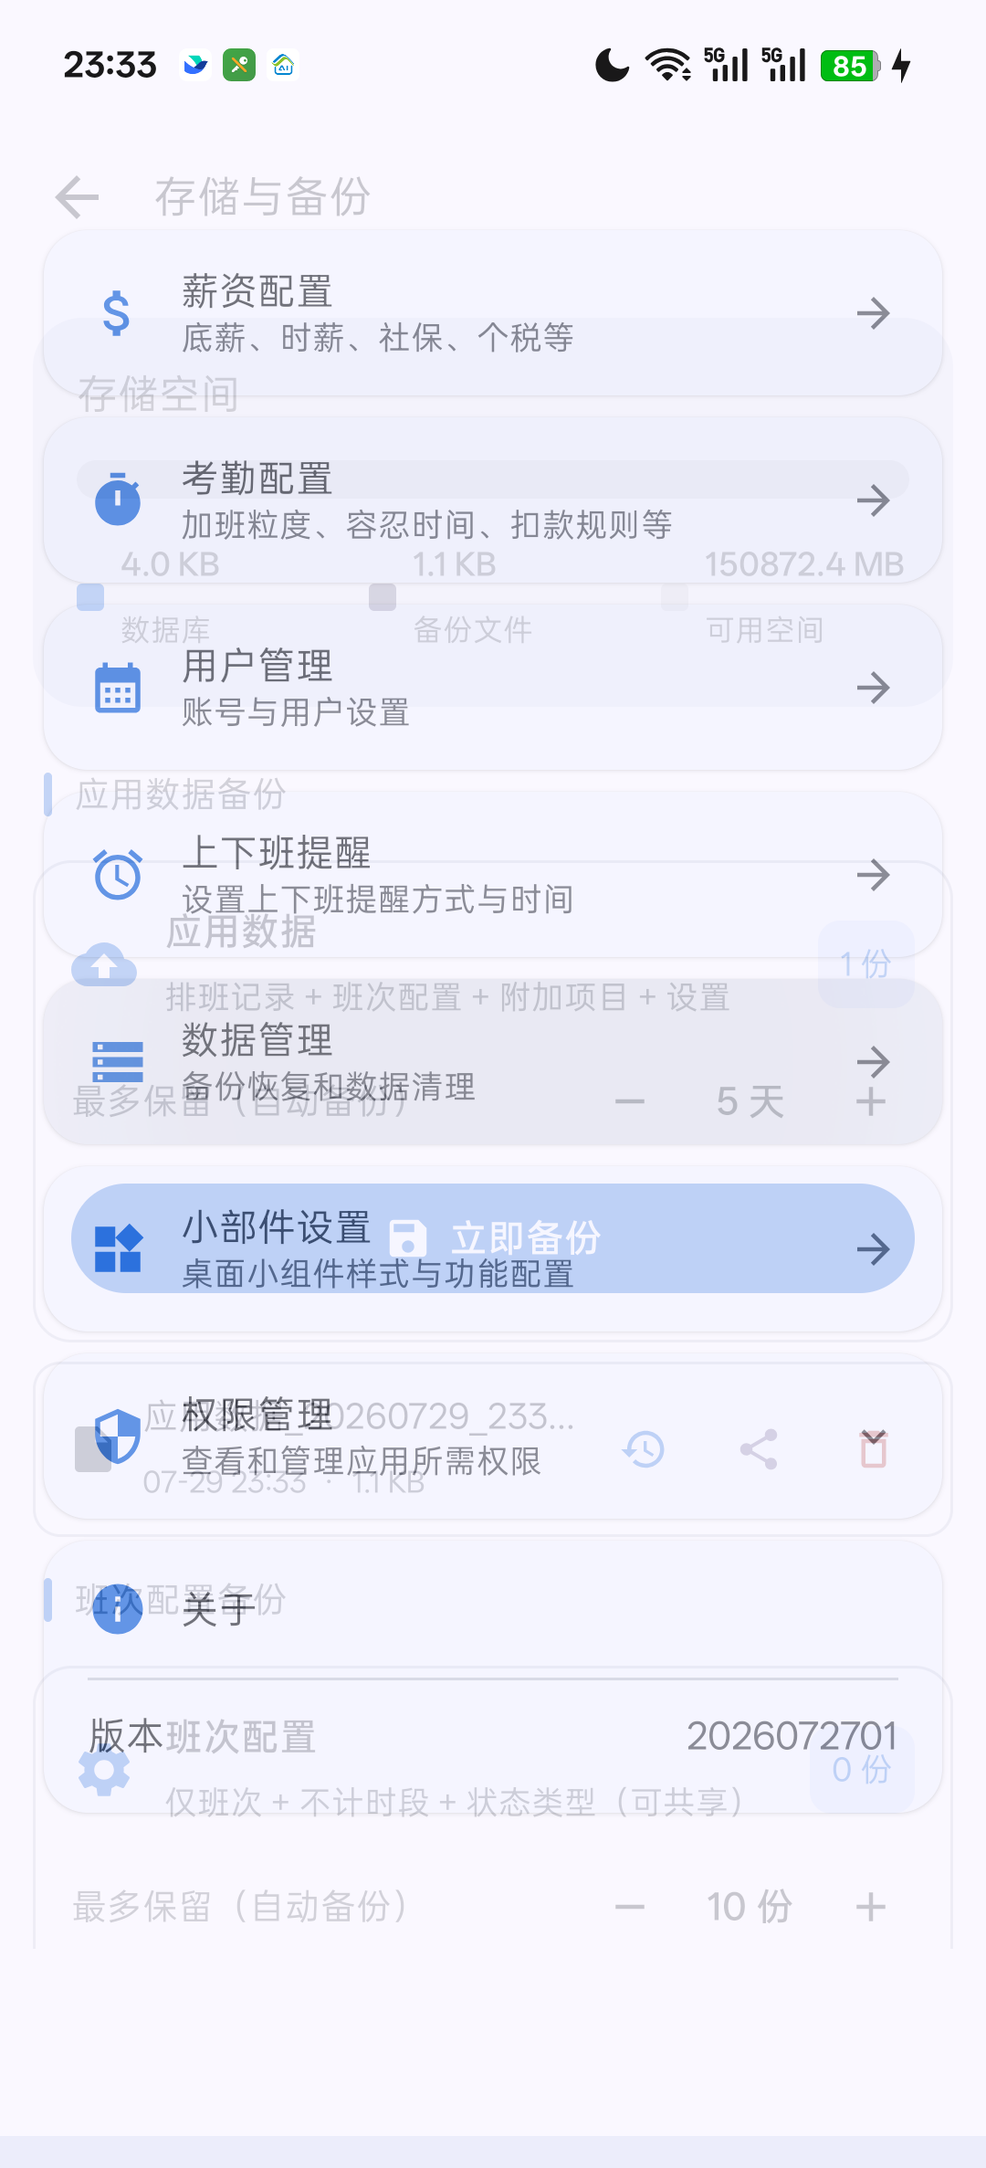
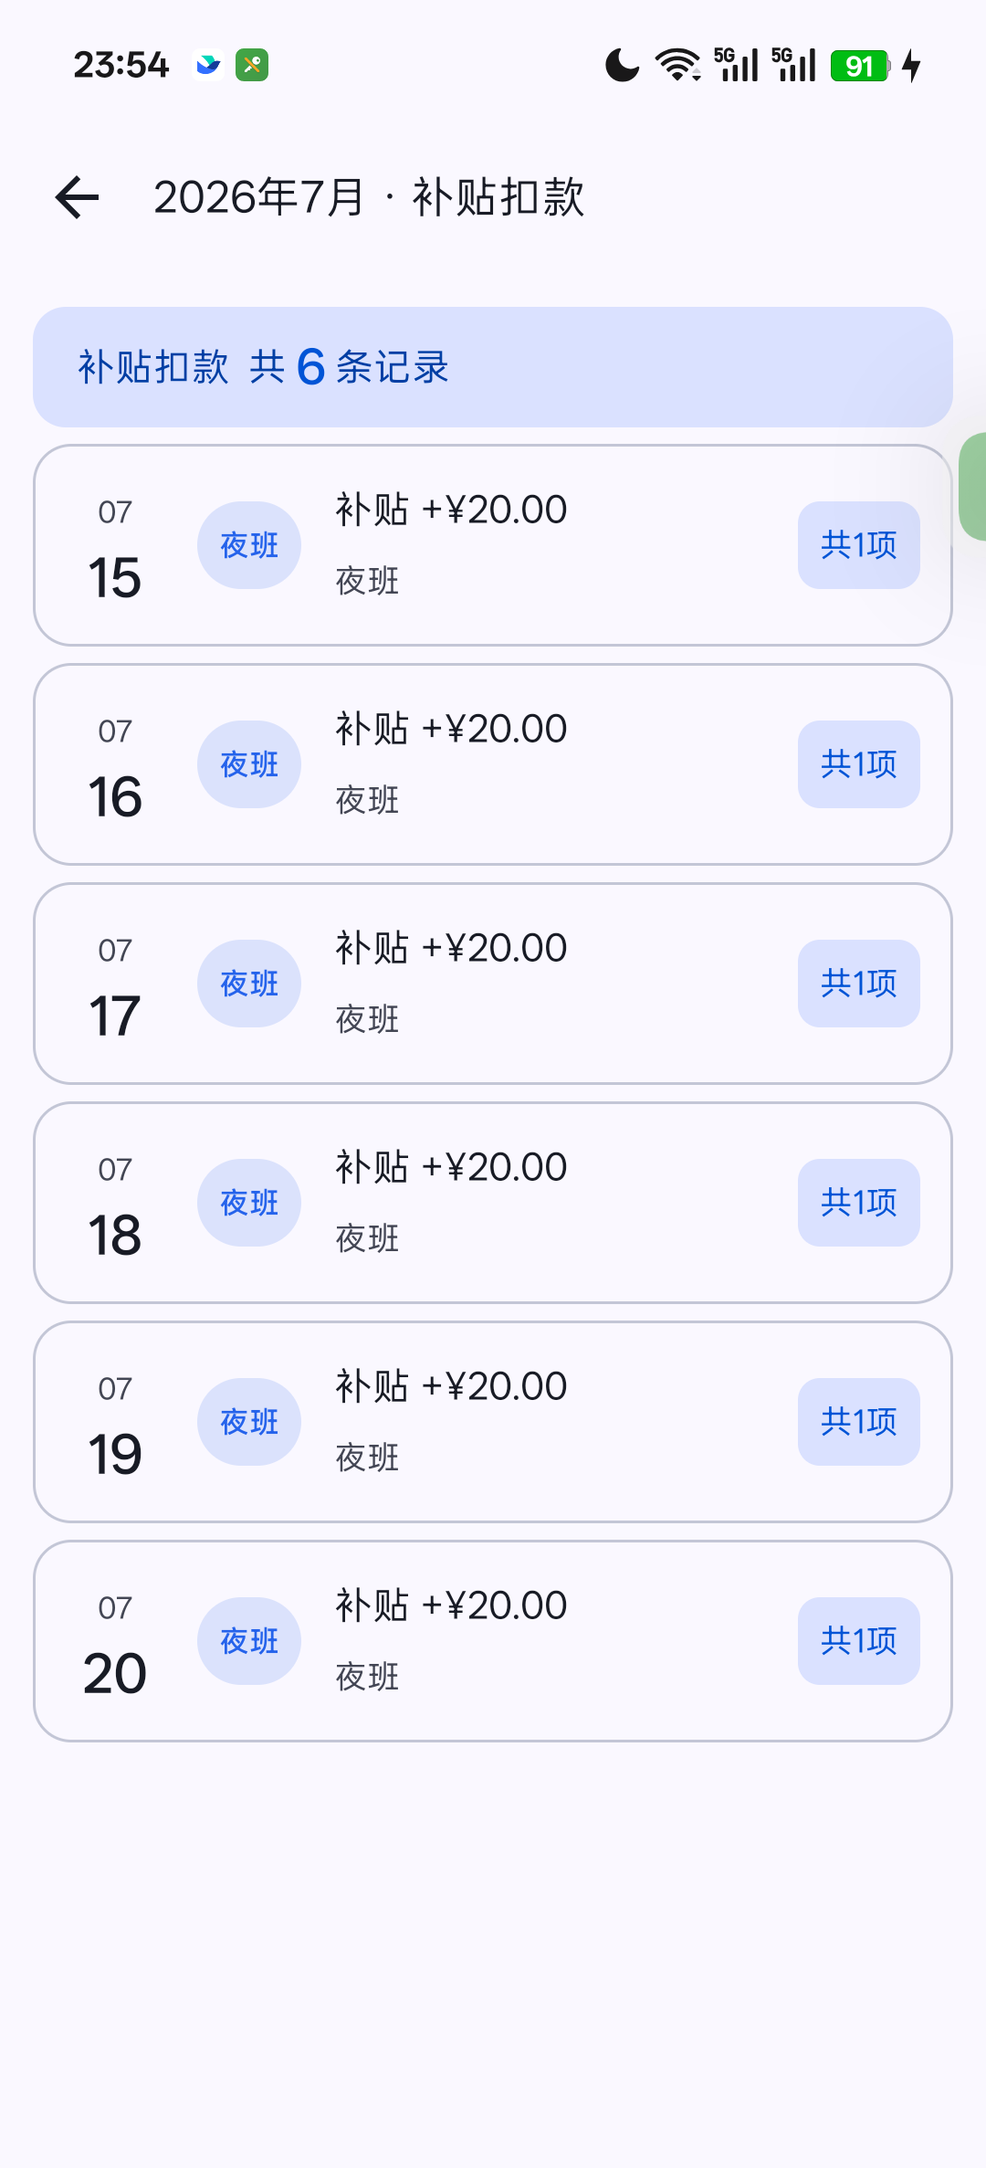
docs(components): 更新日期选择器文档以反映标准Material3实现
- 移除对已删除自定义WheelDatePickerDialog组件的引用
- 更新文档说明当前采用标准Material3 DatePickerDialog为主
- 添加自定义滚轮选择器作为特殊场景备用方案的说明
- 调整架构概览和使用示例匹配实际代码实现
- 更新序列图和依赖关系图以反映新的实现方案
- 增强Material3标准日期选择器的使用指南和最佳实践

diff --git a/app/src/main/java/com/schedulecalendar/app/ui/detail/DetailViewModels.kt b/app/src/main/java/com/schedulecalendar/app/ui/detail/DetailViewModels.kt
@@ -18,6 +18,7 @@ import dagger.hilt.android.lifecycle.HiltViewModel
 import kotlinx.coroutines.channels.Channel
 import kotlinx.coroutines.flow.*
 import kotlinx.coroutines.launch
+import kotlinx.coroutines.withContext
 import javax.inject.Inject
 import java.time.LocalDate
 
@@ -285,135 +286,135 @@ class HoursDetailViewModel @Inject constructor(
     init { load() }
 
     private fun load() = viewModelScope.launch {
-        val shifts      = shiftRepo.getAllWithBuiltin()
-        val breaks      = breakRepo.getAll()
-        val statuses    = shiftStatusRepo.getAllWithBuiltin()
-        val extras      = extraRepo.getAll()
-        val salaryConf  = prefs.salaryConfigFlow.first()
-        val attendConf  = prefs.attendConfigFlow.first()
-        val records     = scheduleRepo.getByMonth("%04d-%02d".format(year, month))
-        val schedules   = records.associateBy { it.date }
-        val details     = CalcUtils.getMonthScheduleDetails(year, month, schedules, shifts, breaks, extras, salaryConf, attendConf)
+        // 数据加载 + 工时计算移至 IO 线程，避免阻塞 Main 线程导致导航卡顿
+        val result = withContext(kotlinx.coroutines.Dispatchers.IO) {
+            val shifts      = shiftRepo.getAllWithBuiltin()
+            val breaks      = breakRepo.getAll()
+            val statuses    = shiftStatusRepo.getAllWithBuiltin()
+            val extras      = extraRepo.getAll()
+            val salaryConf  = prefs.salaryConfigFlow.first()
+            val attendConf  = prefs.attendConfigFlow.first()
+            val records     = scheduleRepo.getByMonth("%04d-%02d".format(year, month))
+            val schedules   = records.associateBy { it.date }
+            val details     = CalcUtils.getMonthScheduleDetails(year, month, schedules, shifts, breaks, extras, salaryConf, attendConf)
 
-        val todayStr = "%04d-%02d-%02d".format(
-            LocalDate.now().year, LocalDate.now().monthValue, LocalDate.now().dayOfMonth
-        )
+            val todayStr = "%04d-%02d-%02d".format(
+                LocalDate.now().year, LocalDate.now().monthValue, LocalDate.now().dayOfMonth
+            )
 
-        val items = when (detailType) {
-            HoursDetailType.LATE -> {
-                details.filter { it.date <= todayStr && it.record != null }.mapNotNull { d ->
-                    val rec = d.record ?: return@mapNotNull null
-                    val shift = d.shift ?: return@mapNotNull null
-                    val actualStart = rec.actualStartTime.takeIf { !it.isNullOrEmpty() } ?: return@mapNotNull null
-                    val lateMinutes = calcLateMinutes(shift.startTime, actualStart, attendConf.lateToleranceMin)
-                    if (lateMinutes <= 0) return@mapNotNull null
-                    HoursDetailItem(
-                        date = d.date,
-                        shiftName = shift.name, shiftColor = shift.color,
-                        primaryText = "打卡 $actualStart（计划 ${shift.startTime}）",
-                        highlightText = "迟到 ${lateMinutes}分钟",
-                        isAlert = lateMinutes >= (attendConf.lateAlertCount * attendConf.lateToleranceMin)
-                    )
-                }
-            }
-            HoursDetailType.EARLY -> {
-                details.filter { it.date <= todayStr && it.record != null }.mapNotNull { d ->
-                    val rec = d.record ?: return@mapNotNull null
-                    val shift = d.shift ?: return@mapNotNull null
-                    val actualEnd = rec.actualEndTime.takeIf { !it.isNullOrEmpty() } ?: return@mapNotNull null
-                    val earlyMinutes = calcEarlyMinutes(shift.endTime, actualEnd, attendConf.earlyLeaveToleranceMin)
-                    if (earlyMinutes <= 0) return@mapNotNull null
-                    HoursDetailItem(
-                        date = d.date,
-                        shiftName = shift.name, shiftColor = shift.color,
-                        primaryText = "打卡 $actualEnd（计划 ${shift.endTime}）",
-                        highlightText = "早退 ${earlyMinutes}分钟",
-                        isAlert = earlyMinutes >= (attendConf.earlyLeaveAlertCount * attendConf.earlyLeaveToleranceMin)
-                    )
-                }
-            }
-            HoursDetailType.REMARK -> {
-                details.filter { it.date <= todayStr && !it.record?.remark.isNullOrBlank() }.map { d ->
-                    HoursDetailItem(
-                        date = d.date,
-                        shiftName = d.shift?.name, shiftColor = d.shift?.color,
-                        primaryText = d.record?.remark ?: ""
-                    )
-                }
-            }
-            HoursDetailType.MISSED -> {
-                details.filter { it.date <= todayStr && it.record != null && it.shift != null }.mapNotNull { d ->
-                    val rec = d.record ?: return@mapNotNull null
-                    val shift = d.shift ?: return@mapNotNull null
-                    if (shift.builtInType == "rest" || shift.builtInType == "swap") return@mapNotNull null
-                    val missingStart = rec.actualStartTime.isNullOrEmpty()
-                    val missingEnd   = rec.actualEndTime.isNullOrEmpty()
-                    if (!missingStart && !missingEnd) return@mapNotNull null
-                    val parts = buildList {
-                        if (missingStart) add("上班未打卡")
-                        if (missingEnd)   add("下班未打卡")
+            val items = when (detailType) {
+                HoursDetailType.LATE -> {
+                    details.filter { it.date <= todayStr && it.record != null }.mapNotNull { d ->
+                        val rec = d.record ?: return@mapNotNull null
+                        val shift = d.shift ?: return@mapNotNull null
+                        val actualStart = rec.actualStartTime.takeIf { !it.isNullOrEmpty() } ?: return@mapNotNull null
+                        val lateMinutes = calcLateMinutes(shift.startTime, actualStart, attendConf.lateToleranceMin)
+                        if (lateMinutes <= 0) return@mapNotNull null
+                        HoursDetailItem(
+                            date = d.date,
+                            shiftName = shift.name, shiftColor = shift.color,
+                            primaryText = "打卡 $actualStart（计划 ${shift.startTime}）",
+                            highlightText = "迟到 ${lateMinutes}分钟",
+                            isAlert = lateMinutes >= (attendConf.lateAlertCount * attendConf.lateToleranceMin)
+                        )
                     }
-                    HoursDetailItem(
-                        date = d.date,
-                        shiftName = shift.name, shiftColor = shift.color,
-                        primaryText = parts.joinToString("，"),
-                        secondaryText = "班次 ${shift.startTime}～${shift.endTime}",
-                        isAlert = true
-                    )
                 }
-            }
-            HoursDetailType.EXTRA -> {
-                details.filter { it.extras.isNotEmpty() }.map { d ->
-                    val subsidyTotal   = d.extras.filter { it.type == "allowance" }.sumOf { it.amount }
-                    val deductionTotal = d.extras.filter { it.type == "deduction" }.sumOf { it.amount }
-                    val parts = buildList {
-                        if (subsidyTotal > 0)   add("补贴 +¥%.2f".format(subsidyTotal))
-                        if (deductionTotal > 0) add("扣款 -¥%.2f".format(deductionTotal))
+                HoursDetailType.EARLY -> {
+                    details.filter { it.date <= todayStr && it.record != null }.mapNotNull { d ->
+                        val rec = d.record ?: return@mapNotNull null
+                        val shift = d.shift ?: return@mapNotNull null
+                        val actualEnd = rec.actualEndTime.takeIf { !it.isNullOrEmpty() } ?: return@mapNotNull null
+                        val earlyMinutes = calcEarlyMinutes(shift.endTime, actualEnd, attendConf.earlyLeaveToleranceMin)
+                        if (earlyMinutes <= 0) return@mapNotNull null
+                        HoursDetailItem(
+                            date = d.date,
+                            shiftName = shift.name, shiftColor = shift.color,
+                            primaryText = "打卡 $actualEnd（计划 ${shift.endTime}）",
+                            highlightText = "早退 ${earlyMinutes}分钟",
+                            isAlert = earlyMinutes >= (attendConf.earlyLeaveAlertCount * attendConf.earlyLeaveToleranceMin)
+                        )
                     }
-                    HoursDetailItem(
-                        date = d.date,
-                        shiftName = d.shift?.name, shiftColor = d.shift?.color,
-                        primaryText = parts.joinToString("，"),
-                        secondaryText = d.extras.joinToString("、") { it.name },
-                        highlightText = "共${d.extras.size}项"
-                    )
+                }
+                HoursDetailType.REMARK -> {
+                    details.filter { it.date <= todayStr && !it.record?.remark.isNullOrBlank() }.map { d ->
+                        HoursDetailItem(
+                            date = d.date,
+                            shiftName = d.shift?.name, shiftColor = d.shift?.color,
+                            primaryText = d.record?.remark ?: ""
+                        )
+                    }
+                }
+                HoursDetailType.MISSED -> {
+                    details.filter { it.date <= todayStr && it.record != null && it.shift != null }.mapNotNull { d ->
+                        val rec = d.record ?: return@mapNotNull null
+                        val shift = d.shift ?: return@mapNotNull null
+                        if (shift.builtInType == "rest" || shift.builtInType == "swap") return@mapNotNull null
+                        val missingStart = rec.actualStartTime.isNullOrEmpty()
+                        val missingEnd   = rec.actualEndTime.isNullOrEmpty()
+                        if (!missingStart && !missingEnd) return@mapNotNull null
+                        val parts = buildList {
+                            if (missingStart) add("上班未打卡")
+                            if (missingEnd)   add("下班未打卡")
+                        }
+                        HoursDetailItem(
+                            date = d.date,
+                            shiftName = shift.name, shiftColor = shift.color,
+                            primaryText = parts.joinToString("，"),
+                            secondaryText = "班次 ${shift.startTime}～${shift.endTime}",
+                            isAlert = true
+                        )
+                    }
+                }
+                HoursDetailType.EXTRA -> {
+                    details.filter { it.extras.isNotEmpty() }.map { d ->
+                        val subsidyTotal   = d.extras.filter { it.type == "allowance" }.sumOf { it.amount }
+                        val deductionTotal = d.extras.filter { it.type == "deduction" }.sumOf { it.amount }
+                        val parts = buildList {
+                            if (subsidyTotal > 0)   add("补贴 +¥%.2f".format(subsidyTotal))
+                            if (deductionTotal > 0) add("扣款 -¥%.2f".format(deductionTotal))
+                        }
+                        HoursDetailItem(
+                            date = d.date,
+                            shiftName = d.shift?.name, shiftColor = d.shift?.color,
+                            primaryText = parts.joinToString("，"),
+                            secondaryText = d.extras.joinToString("、") { it.name },
+                            highlightText = "共${d.extras.size}项"
+                        )
+                    }
+                }
+                HoursDetailType.ALL -> {
+                    details.filter { it.record != null }.map { d ->
+                        val total = d.normalHours + d.overtimeHours + d.weekendHours + d.holidayHours
+                        HoursDetailItem(
+                            date = d.date,
+                            shiftName = d.shift?.name, shiftColor = d.shift?.color,
+                            primaryText = if (total > 0) "工时 %.1fh".format(total) else d.record?.type?.name ?: "",
+                            secondaryText = buildString {
+                                if (d.overtimeHours > 0) append("加班%.1fh ".format(d.overtimeHours))
+                                if (d.record?.remark?.isNotBlank() == true) append("备注")
+                            },
+                            highlightText = if (d.salary > 0) "¥%.0f".format(d.salary) else ""
+                        )
+                    }
                 }
             }
-            HoursDetailType.ALL -> {
-                details.filter { it.record != null }.map { d ->
-                    val total = d.normalHours + d.overtimeHours + d.weekendHours + d.holidayHours
-                    HoursDetailItem(
-                        date = d.date,
-                        shiftName = d.shift?.name, shiftColor = d.shift?.color,
-                        primaryText = if (total > 0) "工时 %.1fh".format(total) else d.record?.type?.name ?: "",
-                        secondaryText = buildString {
-                            if (d.overtimeHours > 0) append("加班%.1fh ".format(d.overtimeHours))
-                            if (d.record?.remark?.isNotBlank() == true) append("备注")
-                        },
-                        highlightText = if (d.salary > 0) "¥%.0f".format(d.salary) else ""
-                    )
-                }
-            }
+            items
         }
 
-        _state.update { it.copy(items = items, loading = false) }
+        _state.update { it.copy(items = result, loading = false) }
     }
 
-    /** 计算迟到分钟数（超过容忍阈值才算），返回实际迟到分钟（支持跨午夜） */
+    /** 计算迟到分钟数（超过容忍阈值才算），返回实际迟到分钟 */
     private fun calcLateMinutes(planStart: String, actualStart: String, toleranceMin: Int): Int {
         val p = planStart.toMinutes(); val a = actualStart.toMinutes()
-        // 跨午夜修正：实际打卡时间早于计划上班时间，视为次日（前一天晚上）
-        val adjA = if (a < p) a + 1440 else a
-        val diff = adjA - p
+        val diff = a - p  // 正=迟到 负=早到
         return if (diff >= toleranceMin) diff else 0
     }
 
-    /** 计算早退分钟数（支持跨午夜） */
+    /** 计算早退分钟数 */
     private fun calcEarlyMinutes(planEnd: String, actualEnd: String, toleranceMin: Int): Int {
         val p = planEnd.toMinutes(); val a = actualEnd.toMinutes()
-        // 跨午夜修正：实际打卡时间早于计划下班时间，视为次日
-        val adjA = if (a < p) a + 1440 else a
-        val diff = p - adjA
+        val diff = p - a  // 正=早退 负=晚退
         return if (diff >= toleranceMin) diff else 0
     }
 

diff --git a/app/src/main/java/com/schedulecalendar/app/ui/calendar/CalendarViewModel.kt b/app/src/main/java/com/schedulecalendar/app/ui/calendar/CalendarViewModel.kt
@@ -294,26 +294,16 @@ class CalendarViewModel @Inject constructor(
             // 加班待确认：早到/晚退分别独立判断（与小程序逻辑一致）
             // 早到加班待确认：有实际上班时间 & 比班次早 & 未忽略早到 & 未确认早到加班
             if (!record.actualStartTime.isNullOrEmpty() && !record.ignoreEarlyArrival && !record.confirmEarlyOT) {
-                val sS = CalcUtils.timeToMin(shift.startTime)
-                val aS = CalcUtils.timeToMin(record.actualStartTime)
-                // 跨午夜修正：实际打卡时间晚于班次开始时间（数值上），视为前一天
-                val adjAS = if (aS > sS) aS - 1440 else aS
-                val earlyMin = sS - adjAS
+                val earlyMin = CalcUtils.timeToMin(shift.startTime) - CalcUtils.timeToMin(record.actualStartTime)
                 val grain = attendConfig.overtimeGranMin
                 if (earlyMin >= grain) {
                     todos.add(TodoItem(dateStr, TodoType.PENDING_EARLY_OT, "早到加班待确认", shiftName = sn, shiftTime = st, overtimeMinutes = earlyMin, actualTime = record.actualStartTime))
                 }
             } else if (record.confirmEarlyOT) {
-                val sS = CalcUtils.timeToMin(shift.startTime)
-                val aS = CalcUtils.timeToMin(record.actualStartTime ?: shift.startTime)
-                val adjAS = if (aS > sS) aS - 1440 else aS
-                val earlyMin = sS - adjAS
+                val earlyMin = CalcUtils.timeToMin(shift.startTime) - CalcUtils.timeToMin(record.actualStartTime ?: shift.startTime)
                 todos.add(TodoItem(dateStr, TodoType.CONFIRMED_EARLY_OT, "已确认早到加班", shiftName = sn, shiftTime = st, overtimeMinutes = maxOf(0, earlyMin), actualTime = record.actualStartTime ?: ""))
             } else if (record.ignoreEarlyArrival) {
-                val sS = CalcUtils.timeToMin(shift.startTime)
-                val aS = CalcUtils.timeToMin(record.actualStartTime ?: shift.startTime)
-                val adjAS = if (aS > sS) aS - 1440 else aS
-                val earlyMin = sS - adjAS
+                val earlyMin = CalcUtils.timeToMin(shift.startTime) - CalcUtils.timeToMin(record.actualStartTime ?: shift.startTime)
                 todos.add(TodoItem(dateStr, TodoType.IGNORED_EARLY_OT, "忽略早到加班", shiftName = sn, shiftTime = st, overtimeMinutes = maxOf(0, earlyMin), actualTime = record.actualStartTime ?: ""))
             }
             // 晚退加班待确认：有实际下班时间 & 比班次晚 & 未忽略晚退 & 未确认晚退加班

diff --git a/app/src/main/java/com/schedulecalendar/app/domain/model/CalcUtils.kt b/app/src/main/java/com/schedulecalendar/app/domain/model/CalcUtils.kt
@@ -77,9 +77,7 @@ object CalcUtils {
         if (actualStart != null) {
             val aS   = timeToMin(actualStart)
             val sS   = timeToMin(shiftStart)
-            // 跨午夜修正：实际打卡时间数值上晚于班次开始，视为前一天
-            val adjAS = if (aS > sS) aS - 1440 else aS
-            val diff = sS - adjAS  // 正=早到 负=迟到
+            val diff = sS - aS  // 正=早到 负=迟到
             if (diff > 0) {
                 if (!ignoreEarlyArrival) {
                     val earlyOtMin = (floor(diff.toDouble() / grain) * grain).toInt()
@@ -291,11 +289,7 @@ object CalcUtils {
                     val shift = if (record.shiftId != null) shifts.find { s -> s.id == record.shiftId } else null
                     if (shift != null && shift.startTime.isNotEmpty() && shift.endTime.isNotEmpty()) {
                         if (!record.actualStartTime.isNullOrEmpty()) {
-                            val pS = timeToMin(shift.startTime)
-                            val aS = timeToMin(record.actualStartTime)
-                            // 跨午夜修正：实际打卡时间早于计划上班时间（数值上），视为次日
-                            val adjAS = if (aS < pS) aS + 1440 else aS
-                            val lateMin = adjAS - pS
+                            val lateMin = timeToMin(record.actualStartTime) - timeToMin(shift.startTime)
                             if (lateMin > attendConfig.lateToleranceMin) lateCount++
                         }
                         if (record.actualEndTime != null) {
@@ -415,10 +409,7 @@ object CalcUtils {
             // 迟到/早退按分钟扣款（仅当配置了费率时）
             val shift = shifts.find { it.id == record.shiftId }
             if (shift != null && attendConfig.lateDeductionPerMin > 0 && !record.actualStartTime.isNullOrEmpty()) {
-                val pS = timeToMin(shift.startTime)
-                val aS = timeToMin(record.actualStartTime)
-                val adjAS = if (aS < pS) aS + 1440 else aS
-                val lateMin = adjAS - pS
+                val lateMin = timeToMin(record.actualStartTime) - timeToMin(shift.startTime)
                 if (lateMin > attendConfig.lateToleranceMin)
                     totalDeduction += lateMin * attendConfig.lateDeductionPerMin
             }
